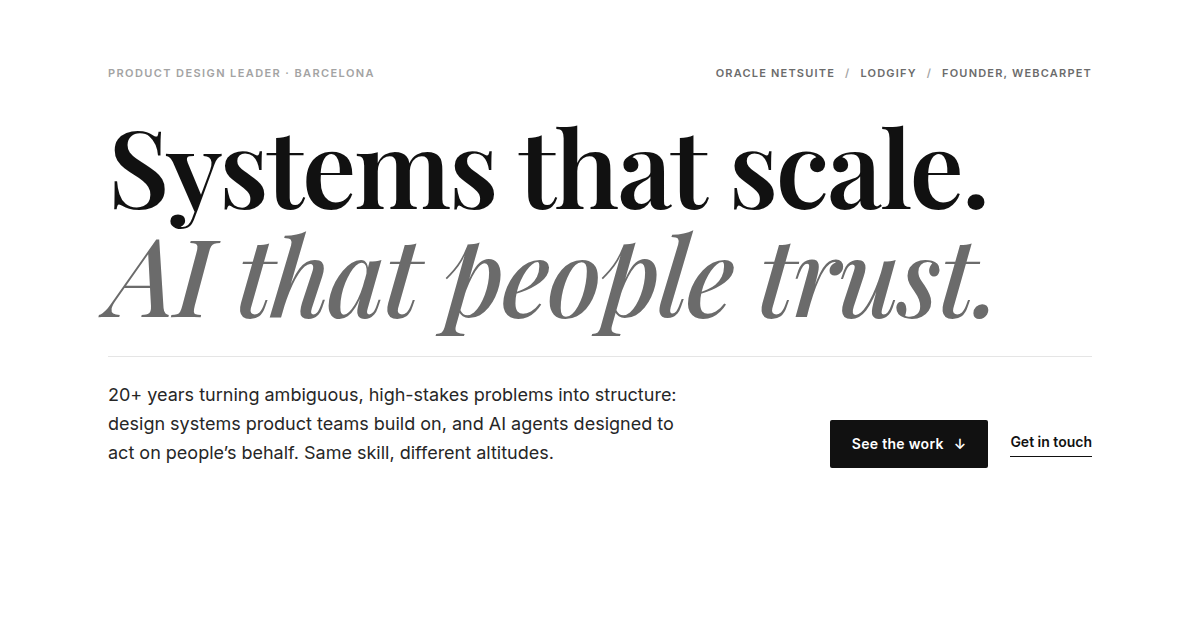
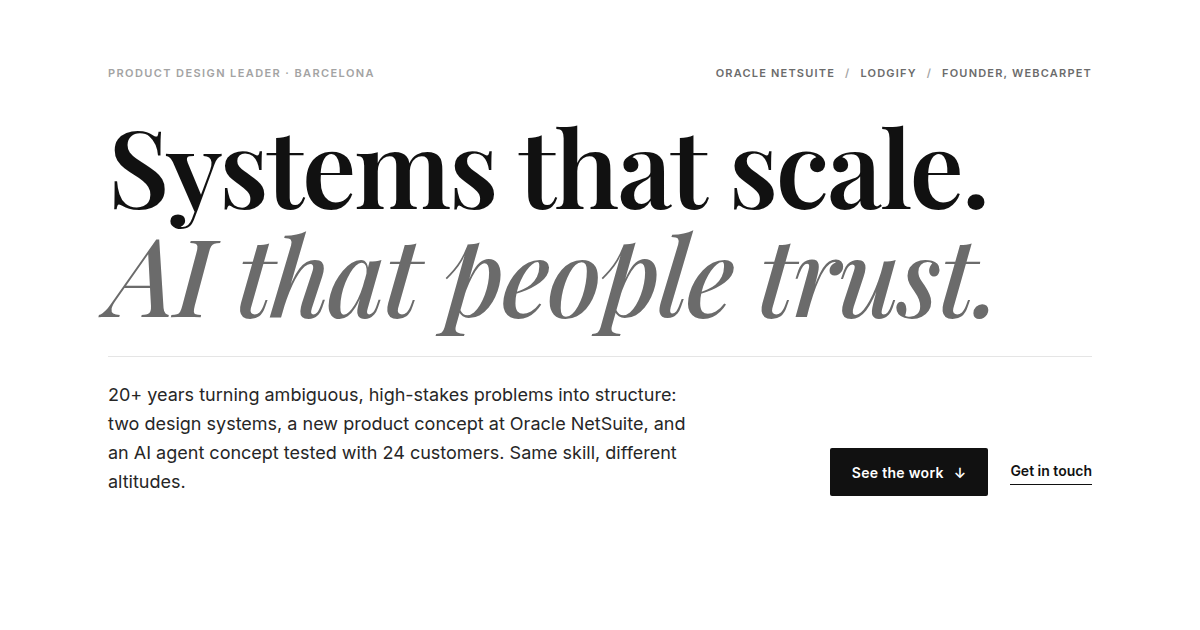
Home intro: claim only what the case studies show
Claude-Session: https://claude.ai/code/session_01C6ee1zXA77t8X8bqW6Rm8z

Changed region(s): [[0.0925, 0.6635, 0.5858, 0.7841], [0.6783, 0.6635, 0.925, 0.8143]]

diff --git a/index.html b/index.html
@@ -534,7 +534,7 @@ figure { margin: 0; }
     </div>
     <h1 class="hx-title">Systems that scale.<br><em>AI that people trust.</em></h1>
     <div class="hx-row">
-      <p class="hx-sub">20+ years turning ambiguous, high-stakes problems into structure: design systems product teams build on, and AI agents designed to act on people’s behalf. Same skill, different altitudes.</p>
+      <p class="hx-sub">20+ years turning ambiguous, high-stakes problems into structure: two design systems, a new product concept at Oracle NetSuite, and an AI agent concept tested with 24 customers. Same skill, different altitudes.</p>
       <div class="hx-cta">
         <a class="btn-primary" href="#work">See the work <span aria-hidden="true">&darr;</span></a>
         <a class="btn-link" href="#contact">Get in touch</a>
